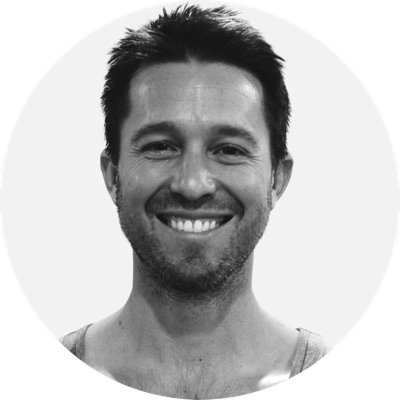
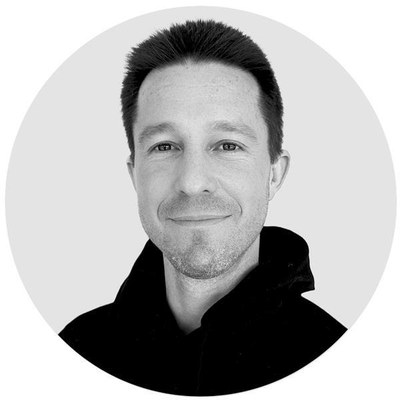
Add Arketa bios and class times to Our Team, point first timers to HOT, FLOW 1 or FIT, and drop the culture DEI box.
Claude-Session: https://claude.ai/code/session_01Bnp839VQAPyk1UVZY1TsH7

diff --git a/src/content/team.ts b/src/content/team.ts
@@ -24,6 +24,7 @@ export const ownership = [
     name: "Alex Jarboe",
     role: "Owner",
     bio: [
+      "**Take class with Alex:** **Sweat, Heat, & Beatz**: Mondays 5:45pm (SW); **FLOW 2**: Saturdays 10am (NW).",
       "Alex is a co-owner of yoga pod Gainesville and a lead facilitator of the yoga pod 200-Hour Teacher Training. His path into ownership and leadership grew directly from lived experience—first as a student, then as a teacher, mentor, and builder of community.",
       "Originally from the East Coast, Alex moved to Colorado in 2003 seeking a deeper connection to nature and a slower, more intentional pace of life. It was there that he took his first HOT yoga class—an experience that challenged him physically and opened the door to a practice that would become a moving meditation and lifelong anchor. Before yoga, Alex worked in high-pressure environments, including roles with the U.S. Secret Service and Lloyd's of London. Yoga became the space that quieted his mind, created room to grow, and ultimately reshaped his direction.",
       "In 2018, Alex and his wife Rae moved to Gainesville with a clear intention: to build on the heart-driven yoga pod foundation they built nationally, into a city that values connection, and to be closer to family. They put down roots in the Oakview neighborhood and committed to showing up not just as studio owners, but as active members of the Gainesville community.",
@@ -32,8 +33,23 @@ export const ownership = [
       "At his core, Alex believes yoga is a practice of relationship—between mind, body, breath, and spirit—and that when practiced with intention, its impact ripples far beyond the mat.",
     ],
   }),
-  personSchema.parse({ photo: "rae-jarboe", name: "Rae Jarboe", role: "Owner" }),
-  personSchema.parse({ photo: "dan-carbonell", name: "Dan Carbonell", role: "Owner" }),
+  personSchema.parse({
+    photo: "rae-jarboe",
+    name: "Rae Jarboe",
+    role: "Owner",
+    bio: [
+      "**Take class with Rae:** **FLOW 2**: Tuesdays 8:45am (NW), Sundays 12pm (NW); **APEX 2**: Tuesdays 12pm (NW).",
+      "**What can students expect in your class?** Hot music, clear guidance, a balance of strength and flexibility, and fun!",
+      "**Which yoga pod class do you enjoy most and why?** I love all of our class styles and teach each one. It's so hard to choose when they all have such a perfect balance to one another. I choose them all!",
+      "**What type of music do you play in your classes?** Each class will vary, but I am always focused on bringing new, creative music each and every class.",
+      "**When you're not practicing yoga, what lights you up?** Travel, hanging with my dog, enjoying time with my husband, playing in nature, going to concerts, cooking, meditating, crafting, journaling, reading, and connecting with friends.",
+    ],
+  }),
+  personSchema.parse({
+    photo: "dan-carbonell",
+    name: "Dan Carbonell",
+    role: "Owner",
+  }),
 ];
 
 /** Leadership Team, matching the leadership list on radhq.us. */
@@ -43,6 +59,7 @@ export const directors = [
     name: "Emily Tharp Pendley",
     role: "Director of Operations",
     bio: [
+      "**Take class with Emily:** **APEX 2**: Mondays 10:30am (NW), Thursdays 5pm (NW).",
       "Emily is the Director of Operations at APEX | yoga pod and a lead faculty member in the APEX and FIT Teacher Training Programs. She joined yoga pod in 2019 as a student and quickly fell in love with the challenge the classes provided and the community that the studio attracted.",
       "She took the first public FIT Teacher Training in 2019 while in graduate school at the University of Florida and continued her fitness education by attending one of the pre-opening APEX Teacher Trainings. During these trainings, Emily realized her passion for teaching group fitness classes and made the decision to follow her heart and pursue fitness as a career.",
       "Shortly after completing her Master's degree in early 2021, Emily began working full time at yoga pod, first as an Assistant Manager, then as the Northwest Studio Manager, eventually becoming the Regional Studio Director before being promoted to Director of Operations in 2025. Emily currently teaches FIT, Sweat, Heat, & Beatz, and APEX classes while also overseeing the entire regional operations of both studio locations, the APEX | yoga pod staff, facilitating teacher training, and heading multiple subcommittees including our Athlete Program, Events Team, and Retail Team. She considers this role to be the biggest blessing as it's a combination of everything she loves: movement, community, teaching, and having fun!",
@@ -54,7 +71,11 @@ export const directors = [
     name: "Amanda Allen",
     role: "Program & Facilities Director",
     bio: [
-      "Coming soon",
+      "**Take class with Amanda:** **HOT 45**: Mondays 3:45pm (NW).",
+      "**What students should expect from your class?** A challenging yet centering experience. A space to move your body and quiet your mind.",
+      "**What classes you enjoy most and why?** I love HOT! As a 3rd generation Florida girl, I really like being warm :) I also enjoy the repetition of poses which allow me to find something new each time to deepen into. When I'm not taking HOT, you can find me in an APEX class!",
+      "**What type of music do you play in your classes?** I enjoy many different genres, but in my HOT classes I like to play a mix of acoustic, instrumental, nature sounds and a sprinkle of current beats.",
+      "**When you're not practicing yoga, what lights you up?** Spending time with my family, being outside, visiting a new national park and photographing all of the above!",
     ],
   }),
   personSchema.parse({
@@ -62,13 +83,24 @@ export const directors = [
     name: "Lindsey Guarisco",
     role: "Accounts Director",
     bio: [
-      "Coming soon",
+      "**Take class with Lindsey:** **FLOW 1**: Mondays 11:45am (NW).",
+      "**What can students expect in your class?** Students can expect to let go and just have fun in FLOW 2! There is always the option to challenge yourself to see what amazing things your body can do and how it moves! We synchronize our breath to our movement in a heated environment while listening to some tunes and getting a lil’ sweaty. Connecting our breath to our movement allows us to achieve a Flow State, a period of hyper-focus in which we find more energy and enjoyment! :)",
+      "**Which yoga pod class do you enjoy most and why?** I enjoy taking FLOW 2 and HOT! It’s always so fun to see the creativity and individuality present in the FLOW 2 sequences that our teachers make. I enjoy HOT because it really challenges me not only physically, but mentally as well.",
+      "**What type of music do you play in your classes?** I usually like to play chill beats, but I sometimes throw in some jazzy/popular mashups to make the classes just a little more groovy.",
+      "**When you're not practicing yoga, what lights you up?** When I’m not practicing yoga, doing anything with my dog, Roxy, lights me up! I love to be outside with her and go on long walks, or stay inside to cuddle with her and watch movies.",
     ],
   }),
   personSchema.parse({
     photo: "ellen-parks",
     name: "Ellen Parks",
     role: "Regional Assistant Director",
+    bio: [
+      "**Take class with Ellen:** **FIT**: Saturdays 8am (NW); **HOT**: Saturdays 5pm (SW), Sundays 5:30pm (NW); **FLOW 2**: Sundays 8am (NW).",
+      "**What can students expect in your class?** Students can expect a challenging, high energy practice that encourages both physical and mental strength. I aim to create a space where everyone feels welcomed and empowered to show up as they are, move with intention, and leave feeling more connected to themselves and their practice.",
+      "**Which APEX | yoga pod class do you enjoy most and why?** HOT, FLOW 2, or FIT. I appreciate the consistency and familiarity of the HOT sequence. FLOW offers a beautiful balance of movement and breath. And FIT, although a more recent passion, I find energizes and allows me to move in a way that feels authentic.",
+      "**What type of music do you play in your classes?** For HOT, you’ll hear anything from energizing songs to keep you moving during powerful poses and more meditative music as we wind down. For FIT, expect to hear hip-hop, rap, maybe a bit of EDM, and some throw backs!",
+      "**When you're not at the studio, what lights you up?** When I’m not at the studio, you’ll find me spending time with my friends around Gainesville, walking in Depot park, reading, or volunteering!",
+    ],
   }),
   personSchema.parse({
     photo: "lindsey-brown",
@@ -79,11 +111,25 @@ export const directors = [
     photo: "sarah-mcquatters",
     name: "Sarah McQuatters",
     role: "Regional Assistant Director + Retail Manager",
+    bio: [
+      "**Take class with Sarah:** **APEX 2**: Tuesdays 8am (SW), Wednesdays 6:30am (NW), Fridays 6:30am (NW); **FIT**: Tuesdays 9:30am (SW), Wednesdays 8am (NW).",
+      "**What can students expect in your class?** Students can expect a lighthearted and supportive environment where they can focus on improving form, strength, and body awareness. Each class offers a challenge to both beginners and long time practitioners! I like to emphasize mindful movement, alignment, and breath to help students create a deeper mind to body connection.",
+      "**Which APEX | yoga pod class do you enjoy most?** I have a special place in my heart for every class offered at APEX | yoga pod, but if I had to pick it would be APEX 2 or FIT! I love taking classes with upbeat music and plenty of opportunity to move my body.",
+      "**What type of music do you play in your class?** I play a mix of rap, hip-hop, pop and EDM/house. I love a good remix or throwback song! I also love getting song requests from students so I can include music they like too!",
+      "**When you’re not in the studio, what lights you up?** When I’m not in the studio I love spending quality time with family and friends. I also love going to concerts, the beach, and cooking!",
+    ],
   }),
   personSchema.parse({
     photo: "gia-saint-john",
     name: "Gia Saint John",
     role: "Marketing Manager",
+    bio: [
+      "**Take class with Gia:** **APEX 2**: Wednesdays 12pm (NW), Wednesdays 4:30pm (SW), Wednesdays 5:30pm (SW), Fridays 5pm (NW); **APEX 1**: Sundays 11:30am (NW).",
+      "**What can students expect in your class?** Students can expect a thoughtful, challenging class that emphasizes control, alignment, and mind-body connection. I focus on intentional movement — you’ll feel strong, supported, and aware of why you’re doing each exercise. My goal is for students to leave feeling energized, balanced, and more connected to their bodies.",
+      "**Which APEX | yoga pod class do you enjoy most and why?** My favorite class is APEX 2 because it strikes the perfect balance between challenge and control. It’s strong and athletic, but still deeply intentional — you’re building power while staying connected to your breath and alignment. I love that it pushes people just enough to feel accomplished without feeling overwhelmed.",
+      "**What type of music do you play in your classes?** I play mostly rap and hip-hop. I love music that keeps you hype and motivated from start to finish. In my practice, focusing on the music is a great way to push through more challenging exercises — it helps you stay present, confident, and mentally strong when things get tough. The right playlist turns effort into momentum.",
+      "**When you're not at the studio, what lights you up?** Outside the studio, I’m energized by travel, wellness, and creative projects. I love exploring new places, spending time in nature, and working on passion projects that blend health and lifestyle.",
+    ],
   }),
   personSchema.parse({
     photo: "patrick-moran",
@@ -99,5 +145,12 @@ export const directors = [
     photo: "audrey-lefler",
     name: "Audrey Lefler",
     role: "Karma Crew Manager",
+    bio: [
+      "**Take class with Audrey:** **HOT**: Mondays 6:30am (NW), Wednesdays 8:45am (SW).",
+      "**What can students expect in your class?** Students can expect a welcoming environment for all experience levels. I meet the challenges of a hot practice with a calming presence. My focus is on breath and alignment.",
+      "**Which APEX | yoga pod class do you enjoy most and why?** My favorite style of class is HOT because the set sequence allows me to find a meditative state quickly. I have recently fallen back in love with YIN.",
+      "**What type of music do you play in your classes?** Imagine yourself on the couch with a cup of tea on a cozy afternoon and the playlist that would go along with that moment. It starts soft and will build to the peak pose with more upbeat tunes and usually finish with instrumental music.",
+      "**When you're not at the studio, what lights you up?** When I am not practicing I enjoy reading, snuggling with my dogs and cats and relaxing at the beach. I will always be a lifelong student whether I am studying wine, practicing French or any new skill I find fascinating.",
+    ],
   }),
 ];

diff --git a/src/content/culture.ts b/src/content/culture.ts
@@ -19,12 +19,8 @@ export const culture = {
       body: "Our philosophy is rooted in the science of flow state, where you achieve a heightened state of focus and attention. Achieve physical, mental, and spiritual fitness through our comprehensive yoga and strength training classes. Increase body awareness, elevate your personal growth, and decrease your stress levels.",
     },
     {
-      title: "Diversity, Equity & Inclusion",
-      body: "At yoga pod, we break the box that society puts us in. We believe that Yoga is for everyone and anyone. You do not have to look or feel a certain way to practice with us. In that, we are committed to diversity and inclusion to expand the variety of students who walk through our doors. We are redefining the status quo surrounding Yoga by fostering an open space that aligns with our core values. This mission wholeheartedly begins with educating ourselves, and holding space for those underrepresented or unseen, as we sweat, breathe, and grow together.",
-    },
-    {
       title: "Locally Owned + Operated",
-      body: "yoga pod is a locally owned and operated business, where owners Alex & Rachel Jarboe and Dan Carbonell redefine fitness and help students forge a sustainable, intentional practice through breath, strength, and sweat. Our practice informs our purpose in business. We can't wait to welcome you to your first experience.",
+      body: "yoga pod is a locally owned and operated business, where owners Alex & Rae Jarboe and Dan Carbonell redefine fitness and help students forge a sustainable, intentional practice through breath, strength, and sweat. Our practice informs our purpose in business. We can't wait to welcome you to your first experience.",
     },
   ],
   principlesIntro:

diff --git a/src/content/first-class.ts b/src/content/first-class.ts
@@ -10,7 +10,7 @@ export const firstClass = {
   steps: [
     {
       title: "Book it",
-      body: "Pick a class on the schedule for whichever studio is closer. If you are brand new, BASICS or FLOW 1 is the easiest place to land.",
+      body: "Pick a class on the schedule for whichever studio is closer. If you are brand new, HOT, FLOW 1, or FIT are the easiest places to land. All are beginner friendly.",
     },
     {
       title: "Arrive 15 minutes early",

diff --git a/src/content/home.ts b/src/content/home.ts
@@ -14,7 +14,7 @@ export const home = {
     items: [
       {
         title: "Every level",
-        body: "BASICS and FLOW 1 if you are brand new. FLOW 2, HOT, and FIT when you want to be worked. Nobody starts at the top.",
+        body: "HOT, FLOW 1, or FIT are the easiest places to land. All are beginner friendly. Nobody starts at the top.",
       },
       {
         title: "Built for comfort",
